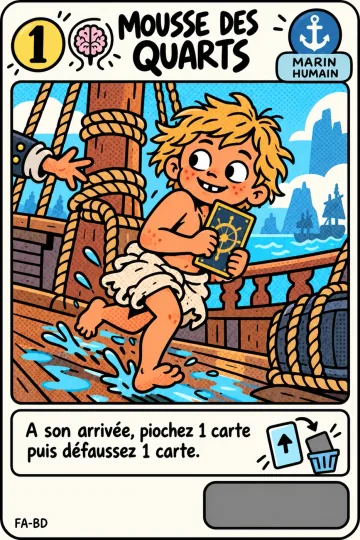
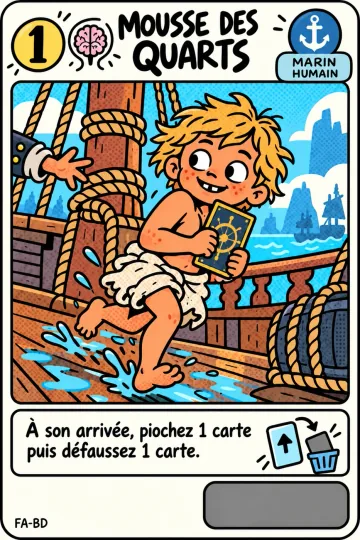
Full-Art repeintes : Le Géant qui croyait être discret et Mousse des Quarts
« infligez » et « À son arrivée » rétablis, relus sur l'image : les deux
Full-Art redeviennent obtenables dans leurs boosters. Plus aucune
illustration à repeindre.

diff --git a/game/cosmetics/artworks.ts b/game/cosmetics/artworks.ts
@@ -122,10 +122,10 @@ const ALTERNATE_ARTS: Record<string, CardAlternateArt> = {
   },
   "le-geant-qui-croyait-etre-discret": {
     styled: true,
+    // Repeinte le 18/10/2026 : « infligez » rétabli.
     fullArt: {
       textePeint:
-        "À l'arrivée : sur 4+, gagne Pied marin ce tour. Réussite critique : lorsqu'il attaque ce tour, inflige aussi 2 dégâts au Navire adverse.",
-      aRepeindre: "« inflige » au lieu de « infligez » : le texte peint ne dit pas les mots de la carte.",
+        "À l'arrivée : sur 4+, gagne Pied marin ce tour. Réussite critique : lorsqu'il attaque ce tour, infligez aussi 2 dégâts au Navire adverse.",
     },
   },
   lentendant: {
@@ -143,7 +143,8 @@ const ALTERNATE_ARTS: Record<string, CardAlternateArt> = {
   // Full-Art livrée le 18/10/2026, Styled le même soir.
   "mousse-des-quarts": {
     styled: true,
-    fullArt: { textePeint: "A son arrivée, piochez 1 carte puis défaussez 1 carte.", aRepeindre: "« À » peint sans accent." },
+    // Repeinte le 18/10/2026 : « À » accentué.
+    fullArt: { textePeint: "À son arrivée, piochez 1 carte puis défaussez 1 carte." },
   },
   "relance-j-te-jure": { styled: true, fullArt: { textePeint: "Chaîne — Relancez le dé en cours et gardez le nouveau résultat." } },
 };

diff --git a/tests/game/cardEditions.test.ts b/tests/game/cardEditions.test.ts
@@ -32,8 +32,7 @@ describe("éditions de carte", () => {
     expect(boosterArtworksFor("la-mutation-mondiale", "aberration-vorace")).toEqual(["styled", "styled-fa"]);
     expect(boosterArtworksFor("standard", "aberration-vorace")).toEqual([]);
     expect(boosterArtworksFor("standard", "marin-des-jetees")).toEqual([]);
-    // Full-Art à repeindre : jamais proposée, même répartie.
-    expect(boosterArtworksFor("dungeon-et-ladalle", "le-geant-qui-croyait-etre-discret")).toEqual(["styled"]);
+    expect(boosterArtworksFor("dungeon-et-ladalle", "le-geant-qui-croyait-etre-discret")).toEqual(["styled", "styled-fa"]);
   });
 
   it("le tirage d'illustration respecte ses chances, sans reporter une illustration absente sur l'autre", () => {
